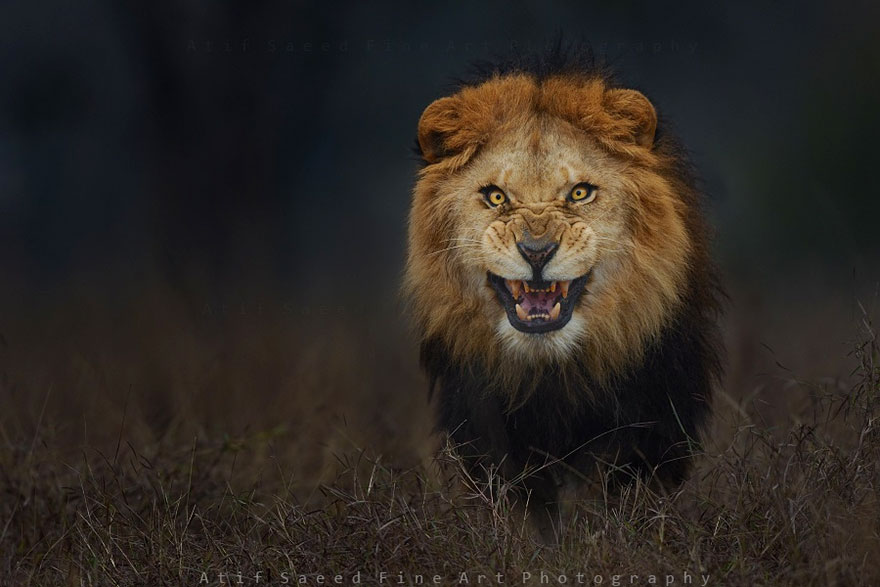
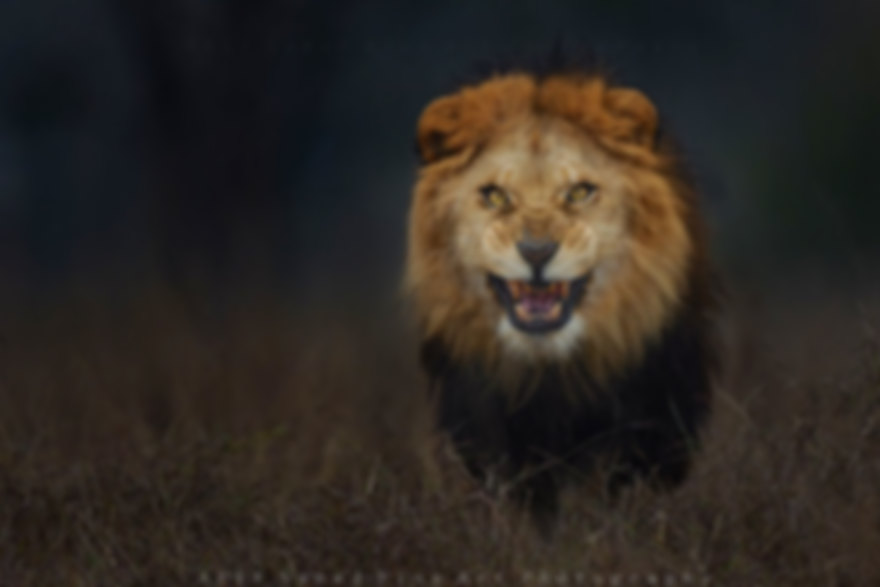
Changed method to GET and added puts

diff --git a/app/controllers/transform_controller.rb b/app/controllers/transform_controller.rb
@@ -12,35 +12,48 @@ class TransformController < ApplicationController
   end
 
   def create
-    img1_url = params[:picture1]
-    open('image1.jpg', 'wb') do |file|
-      file << open(img1_url).read
-    end
-
-    img2_url = params[:picture2]
-    open('image2.jpg', 'wb') do |file|
-      file << open(img2_url).read
-    end
-
-    first_image = MiniMagick::Image.new("image1.jpg")
-    second_image = MiniMagick::Image.new("image2.jpg")
-
-    result = first_image.composite(second_image) do |c|
-      c.compose "Over"    # OverCompositeOp
-      c.geometry "+20+20" # copy second_image onto first_image from (20, 20)
-    end
-    result.write "output.jpg"
-    # MiniMagick::Tool::Mogrify.new do |mogrify|
-    #   mogrify.blur("5x3")
-    #   mogrify << "image.jpg"
+    # img1_url = params[:picture1]
+    # open('image1.jpg', 'wb') do |file|
+    #   file << open(img1_url).read
     # end
+
+    # img2_url = params[:picture2]
+    # open('image2.jpg', 'wb') do |file|
+    #   file << open(img2_url).read
+    # end
+
+    # first_image = MiniMagick::Image.new("image1.jpg")
+    # second_image = MiniMagick::Image.new("image2.jpg")
+
+    # result = first_image.composite(second_image) do |c|
+    #   c.compose "Over"    # OverCompositeOp
+    #   c.geometry "+20+20" # copy second_image onto first_image from (20, 20)
+    # end
+    # result.write "output.jpg"
+
+    image_url = params[:picture]
+    open('image.jpg', 'wb') do |file|
+      file << open(image_url).read
+    end
+
+    puts "Got image from URL"
+
+    MiniMagick::Tool::Mogrify.new do |mogrify|
+      mogrify.blur("5x3")
+      mogrify << "image.jpg"
+    end
+
+    puts "Transformed Image"
 
     auth = {
       cloud_name: "natekronos",
       api_key: "529551768137712",
       api_secret: "86j1wf0r8JgITaKKdxgLDMnLNWY"
     }
-    image_hash = Cloudinary::Uploader.upload('output.jpg', auth)
+    image_hash = Cloudinary::Uploader.upload('image.jpg', auth)
+
+    puts "uploaded image to Cloudinary"
+
     image_url = image_hash["url"]
     render json: { :image_url => image_url }
   end

diff --git a/config/routes.rb b/config/routes.rb
@@ -1,7 +1,7 @@
 Rails.application.routes.draw do
 
   get "/transform/index"
-  post "/transform/create"
+  get "/transform/create"
 
   # The priority is based upon order of creation: first created -> highest priority.
   # See how all your routes lay out with "rake routes".
